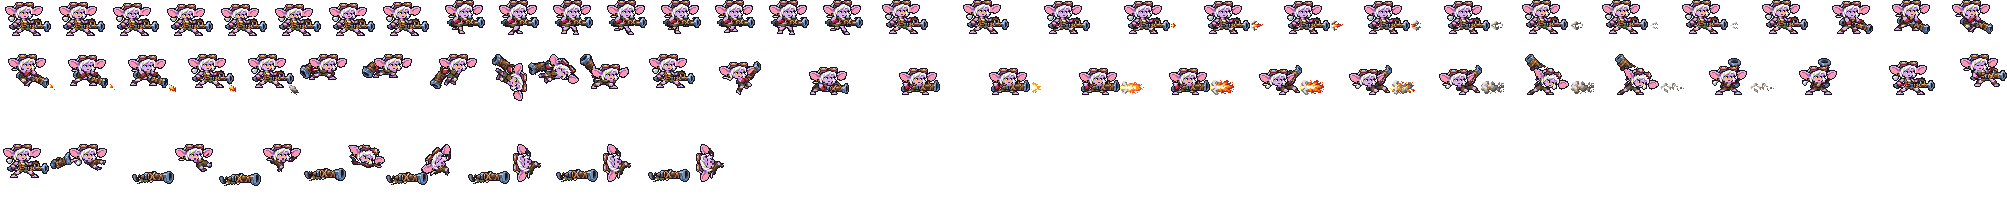
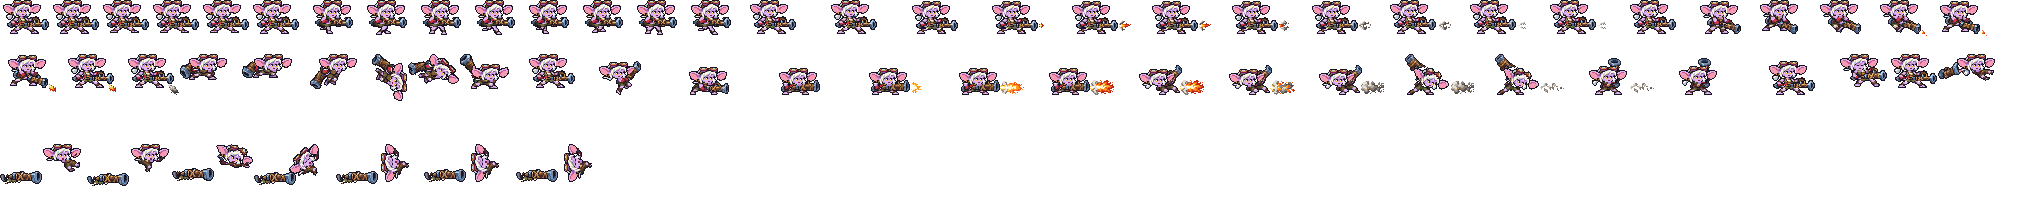
Tristana, Jax, Pyke keep their old idles
After two rounds (frozen weapons, then pinned weapons with a waist cut) the
user kept the original idles: 「小炮 夹克 派克 全用旧的吧」 (2026-10-08). All
three hold or lean on their weapon in a wide crouch. They join Brand in
BREATHE_SKIP; WEAPON_PIN and merge_cost(keep=) go with them (no other user).

Jax and Pyke are now byte-identical to main; Tristana differs only by the ear
fix (fix_tristana_ear.py).

Changed region(s): [[0.0, 0.2634, 1.0, 0.4976], [0.0, 0.0, 1.0, 0.1756], [0.0, 0.7024, 0.3707, 0.9073]]

diff --git a/tools/art/import_native.py b/tools/art/import_native.py
@@ -57,24 +57,21 @@ STEADY = ("idle", "run")
 # 「移动的时候头和身体不协调」) - steadied on the head, the frames would slide the body back under a still head
 UNSTEADY = {("rakan", "run")}
 # idle_breathe.py makes every idle the design breathing (breathe_idle, run last); BREATHE_SKIP keeps an idle as drawn
-# (Brand's idle is already six drawings of his burning body), NO_NOD breathes without the head's late nod
-BREATHE_SKIP = {"brand"}
+# (Brand's idle is already six drawings of his burning body; Tristana, Jax and Pyke hold or lean on their weapon in a
+# wide crouch, and after two rounds the user kept their old idles: 「小炮 夹克 派克 全用旧的吧」, 2026-10-08), NO_NOD
+# breathes without the head's late nod
+BREATHE_SKIP = {"brand", "tristana", "jax", "pyke"}
 # idle_breathe options per hero (the user's review of the first roster GIF, 2026-10-08: Akali, Alistar, Ashe, Briar and
 # Ezreal "有问题"): mode "seam" nods with a full-width row under the chin instead of the head piece, deep lets the body's
 # rows come from down to the shins
 # cut zones forced into the shins where the default zone found a cheaper seam elsewhere: Alistar's flat belt (only his
-# hump breathed, 「牛头有点怪」); Kennen, Jax, LeBlanc, Janna, Twisted Fate and Tristana are short or skirted (the zone
-# rows landed in the skirt or the weapon); Renekton, Pyke and Vayne crouch, their figure is squat and the 30% band
-# started in the torso (「派克手臂有点变形」「鳄鱼的脚有点怪」「薇恩有点怪」, 2026-10-08)
+# hump breathed, 「牛头有点怪」); Kennen, LeBlanc, Janna and Twisted Fate are short or skirted (the zone rows landed in
+# the skirt or the weapon); Renekton and Vayne crouch, their figure is squat and the 30% band started in the torso
+# (「鳄鱼的脚有点怪」「薇恩有点怪」, 2026-10-08)
 BREATHE_OPTS = {"alistar": {"zone": (0.20, 1)},
                 "kennen": {"zone": (0.18, 1)}, "leblanc": {"zone": (0.18, 1)},
                 "janna": {"zone": (0.18, 1)}, "twistedfate": {"zone": (0.18, 1)},
                 "renekton": {"zone": (0.15, 1)}, "vayne": {"zone": (0.20, 1)},
-                # crouched or propped on the weapon: the cut line sits at the waist over the pinned prop, dip only
-                # (a 1-column lean on a wide hunched figure read as a jerk; 「派克 贾克斯 小炮还是不对」 2026-10-08)
-                "jax": {"zone": (0.45, 1), "sway": [0] * 8},
-                "tristana": {"zone": (0.60, 1), "sway": [0] * 8},
-                "pyke": {"zone": (0.45, 1), "sway": [0] * 8},
                 "aatrox": {"sway": [0] * 8}}   # his hand left the planted sword's hilt when the body leant
 # hero: [(colour set, box)] of a weapon resting on or near the ground. idle_breathe would cut or hinge THROUGH a blade
 # that spans the legs' columns (「剑魔和盖伦武器有点变形」「格温天使武器变形」「锐雯武器变形」「永恩武器变形」, 2026-10-08), so
@@ -93,16 +90,6 @@ WEAPON_FREEZE = {
                 (0x27, 0x27, 0x20), (0xF6, 0xEA, 0xDB), (0x24, 0x18, 0x1F)}, (-12, -1, 1, 99))],
     "yone": [({(0xFA, 0xFA, 0xFA), (0xAB, 0xB2, 0xC6), (0x94, 0x9B, 0xB6), (0x49, 0x51, 0x6E)}, (-12, 0, 8, 99)),
               ({(0xCB, 0x07, 0x27), (0x2A, 0x00, 0x04), (0x59, 0x0D, 0x25)}, (-14, -5, -99, -9))],
-}
-# hero: [(colour set, box)] of a weapon the hero GRIPS or leans on. Freezing one and stamping it back hid the gripping
-# hand behind it (Tristana's forearm vanished into the cannon, 「小炮还是不对」); instead the weapon is pinned: it keeps
-# standing with the legs and the cuts go ABOVE it (oppi's Jax breathes over a planted lamppost the same way), so the
-# grip stays drawn exactly as the design laid it.
-WEAPON_PIN = {
-    "jax": [({(0x28, 0x33, 0x54), (0x8A, 0x29, 0x01), (0xE4, 0xBE, 0x6A)}, (-11, -4, -99, 99))],
-    "tristana": [({(0x73, 0x97, 0xC3), (0xB9, 0xDD, 0xED), (0xBF, 0xCC, 0xD8), (0x44, 0x5E, 0x80), (0x7E, 0x87, 0x9E),
-                   (0x28, 0x34, 0x47), (0xC8, 0x99, 0x4E), (0xE6, 0xBF, 0x86), (0xCE, 0x95, 0x60), (0x87, 0x60, 0x2E)},
-                  (-14, -3, 2, 99))],
 }
 
 
@@ -845,18 +832,14 @@ def breathe_idle(hero, sheet):
     else:
         ys, xs = np.nonzero(a[..., 3])
         head = (float(np.median(xs[ys < ys.min() + 8])), float(ys.min() + 7))
-    frozen = pin = None
+    frozen = None
     if hero in WEAPON_FREEZE:
         frozen = np.zeros(a.shape[:2], bool)
         for colours, box in WEAPON_FREEZE[hero]:
             frozen |= weapon_mask(a, colours, box)
         a = a.copy()
         a[frozen] = 0
-    if hero in WEAPON_PIN:
-        pin = np.zeros(a.shape[:2], bool)
-        for colours, box in WEAPON_PIN[hero]:
-            pin |= weapon_mask(a, colours, box)
-    frames, rows = IB.breathe(a, head, nod=hero not in NO_NOD, keep=pin, **BREATHE_OPTS.get(hero, {}))
+    frames, rows = IB.breathe(a, head, nod=hero not in NO_NOD, **BREATHE_OPTS.get(hero, {}))
     if frozen is not None:
         src = sheet["idle"][0][0]
         fy, fx = np.nonzero(frozen)

diff --git a/tools/art/idle_breathe.py b/tools/art/idle_breathe.py
@@ -23,10 +23,9 @@ SWAY = [0, 0, 0, 0, 1, 1, 1, 0]     # columns the body leans forward, a frame af
 MS = 140
 
 
-def merge_cost(a, lo, hi, feet=None, keep=None):
-    """(rows lo..hi) x columns: the visible pixels of taking row y out (rows y and y + 1 meet): a colour change or an
-    opacity change there, 100 from row `feet` down in the columns standing on the soles' row (never cut a foot), and
-    100 where the seam touches `keep` (a weapon the hero grips or leans on: the cut goes round it, never through)."""
+def merge_cost(a, lo, hi, feet=None):
+    """(rows lo..hi) x columns: the visible pixels of taking row y out (rows y and y+1 meet): a colour change or an
+    opacity change there, and 100 from row `feet` down in the columns standing on the soles' row (never cut a foot)."""
     op = a[..., 3] > 0
     c = np.zeros((hi - lo + 1, a.shape[1]))
     sole = int(np.nonzero(op.any(1))[0].max())
@@ -37,8 +36,6 @@ def merge_cost(a, lo, hi, feet=None, keep=None):
         c[i] = diff * 1.0 + (op[y] != op[y + 1]) * 2.0
         if feet is not None and y + 1 >= feet:
             c[i] += (op[y] | op[y + 1]) * standing * 100.0
-        if keep is not None:                                 # a cut moves everything above it down: a weapon pixel
-            c[i] += keep[:y + 2].any(0) * 100.0              # at or above the seam would move, so the cut goes below
     return c
 
 
@@ -175,7 +172,7 @@ def pieces(op):
     return lab, n
 
 
-def breathe(design, head, body=BODY, lag=LAG, nod=True, sway=SWAY, nod_max=6.0, zone=(0.30, 2), keep=None, **_):
+def breathe(design, head, body=BODY, lag=LAG, nod=True, sway=SWAY, nod_max=6.0, zone=(0.30, 2), **_):
     """8 frames from one design frame: (frames, report). head = (x, y) head point in the frame's coordinates.
     The frames come 2 squares bigger all round (a pivot-centred frame stays centred), so the lean is never cut."""
     a0 = np.pad(design, ((2, 2), (2, 2), (0, 0)))
@@ -191,9 +188,7 @@ def breathe(design, head, body=BODY, lag=LAG, nod=True, sway=SWAY, nod_max=6.0, 
     # flat dark belt was the cheapest row of the default zone, so only his hump breathed while the fists stood
     # (「牛头有点怪」): his zone is forced into the legs, zone=(0.20, 1)
     lo, hi = int(sole - zone[0] * h), sole - zone[1]
-    if keep is not None:
-        keep = np.pad(keep, ((2, 2), (2, 2)))
-    dip, dip_cost = pick(merge_cost(a0, lo, hi, feet=sole - 3, keep=keep), groups(a0, lo, hi), lo, 2, W)
+    dip, dip_cost = pick(merge_cost(a0, lo, hi, feet=sole - 3), groups(a0, lo, hi), lo, 2, W)
     # the lean's hinge, per group: a standing shape (feet on the soles' row) hinges at the ankle - below its own cut
     # rows, above the boot's last two rows; a hanging shape (a fist, a tail off the ground) moves whole (hinge = sole)
     standing = op[sole]
